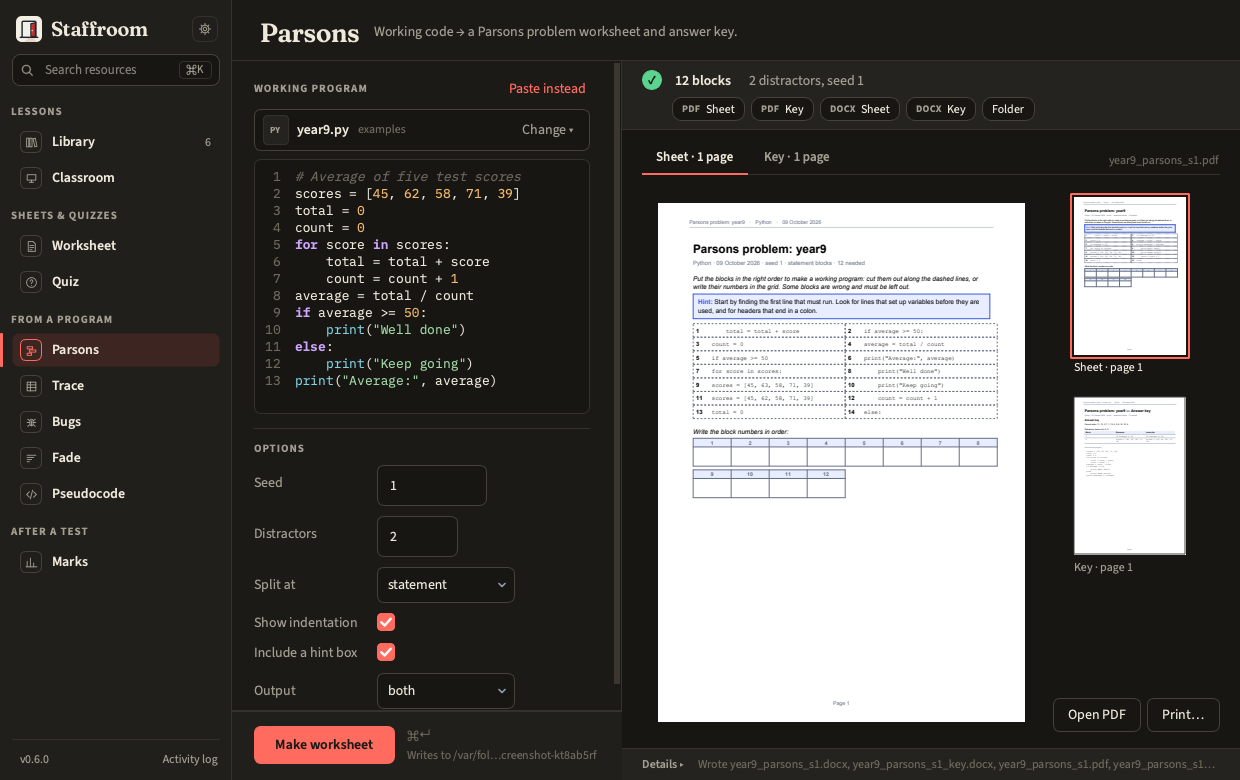
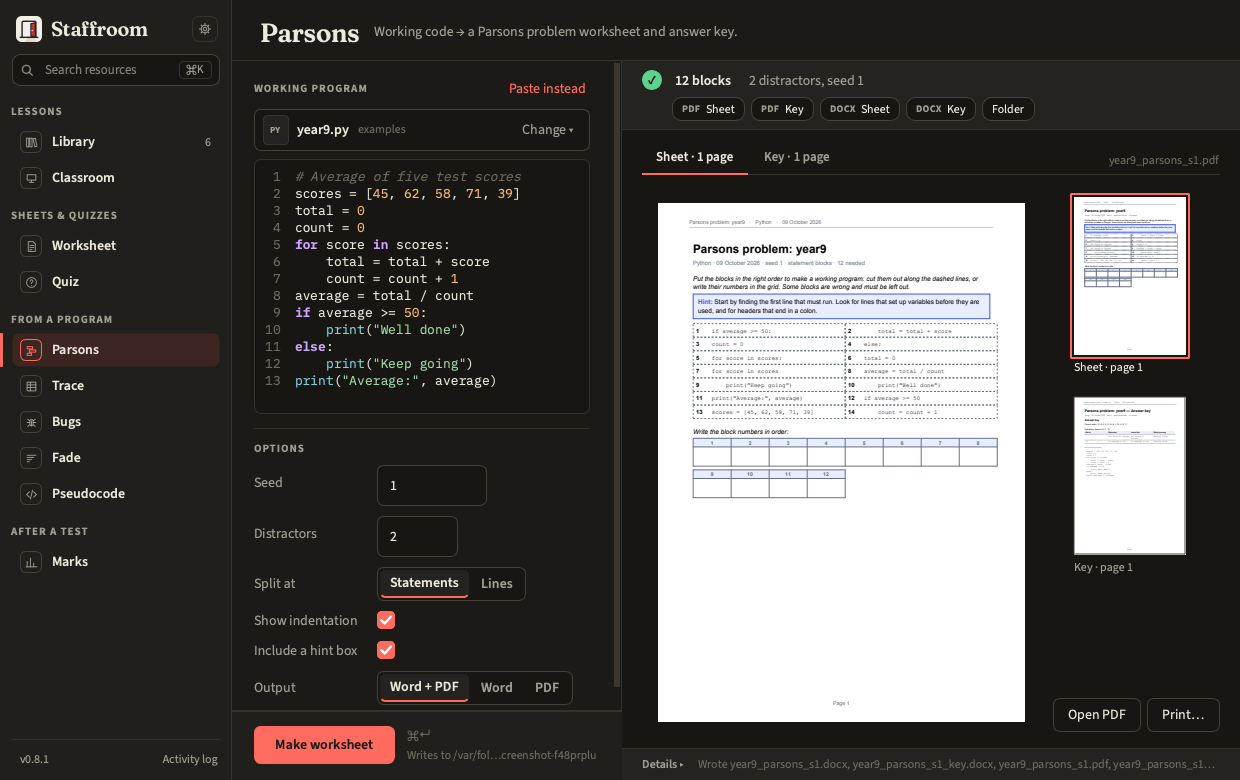
docs(parsons): say which distractors a sheet can have; before/after for #19
The glossary and the Parsons page said 'a number off by one' anywhere;
the rendered sample and panel screenshot showed the old year9 sheet.

diff --git a/docs/tools/parsons.md b/docs/tools/parsons.md
@@ -7,8 +7,13 @@ with optional distractors, and a key.
 
 - **Split at** statement (compound headers and their bodies become separate
   blocks, so structure is rebuilt too) or line.
-- **Distractors** are real lines with a colon removed, a comparison flipped
-  or a number off by one. The key says which blocks to leave out.
+- **Distractors** are real lines with one mistake a pupil can spot from the
+  sheet: a colon removed, a comparison flipped, or a number off by one in a
+  `range()`, an index or a `while` condition. Data is never changed: list
+  values, a variable's starting value and the number in an `if` stay as
+  written, and no distractor adds `+ 0`. A program with none of these gets
+  fewer distractors than asked for. The key says which blocks to leave out
+  and what is wrong with each.
 - **Show indentation** off makes pupils decide the indents.
 - The sheet prints the blocks as numbered cut-out boxes, two across, with
   dashed cut lines and an answer grid underneath; a 15-block problem fits on

diff --git a/CHANGELOG.md b/CHANGELOG.md
@@ -18,6 +18,12 @@ with every change; `just release <part>` turns it into a version.
   `uv tool upgrade staffroom` instead of fetching, or fast-forwarding, whatever repository
   encloses the tool folder. One function, `core.install.detect`, decides checkout or
   installed copy; the sidebar footer no longer says "up to date" after a failed check (#9).
+- Parsons distractors are wrong in a way the sheet shows (#19): a missing colon, a
+  flipped comparison, or an off-by-one in a `range()`, an index or a `while`
+  condition. List values, starting values, numbers in an `if` and numbers in strings
+  are never changed, and no distractor reads `+ 0`; the key adds a *What is wrong*
+  column. Sheets for programs that had such distractors (including `year9.py`) change
+  for the same seed; the rest are as before.
 
 ## [0.8.1] - 2026-10-11
 ### Changed

diff --git a/docs/guide/glossary.md b/docs/guide/glossary.md
@@ -69,7 +69,7 @@ term has a precise meaning in the code, this is that meaning.
 
 **Distractor**
 : A block that does not belong: a real line with its colon removed, a
-  comparison flipped or a number off by one. In Quiz, a wrong option in a
+  comparison flipped or a loop bound or index off by one. In Quiz, a wrong option in a
   multiple-choice question.
 
 **Trace table**
